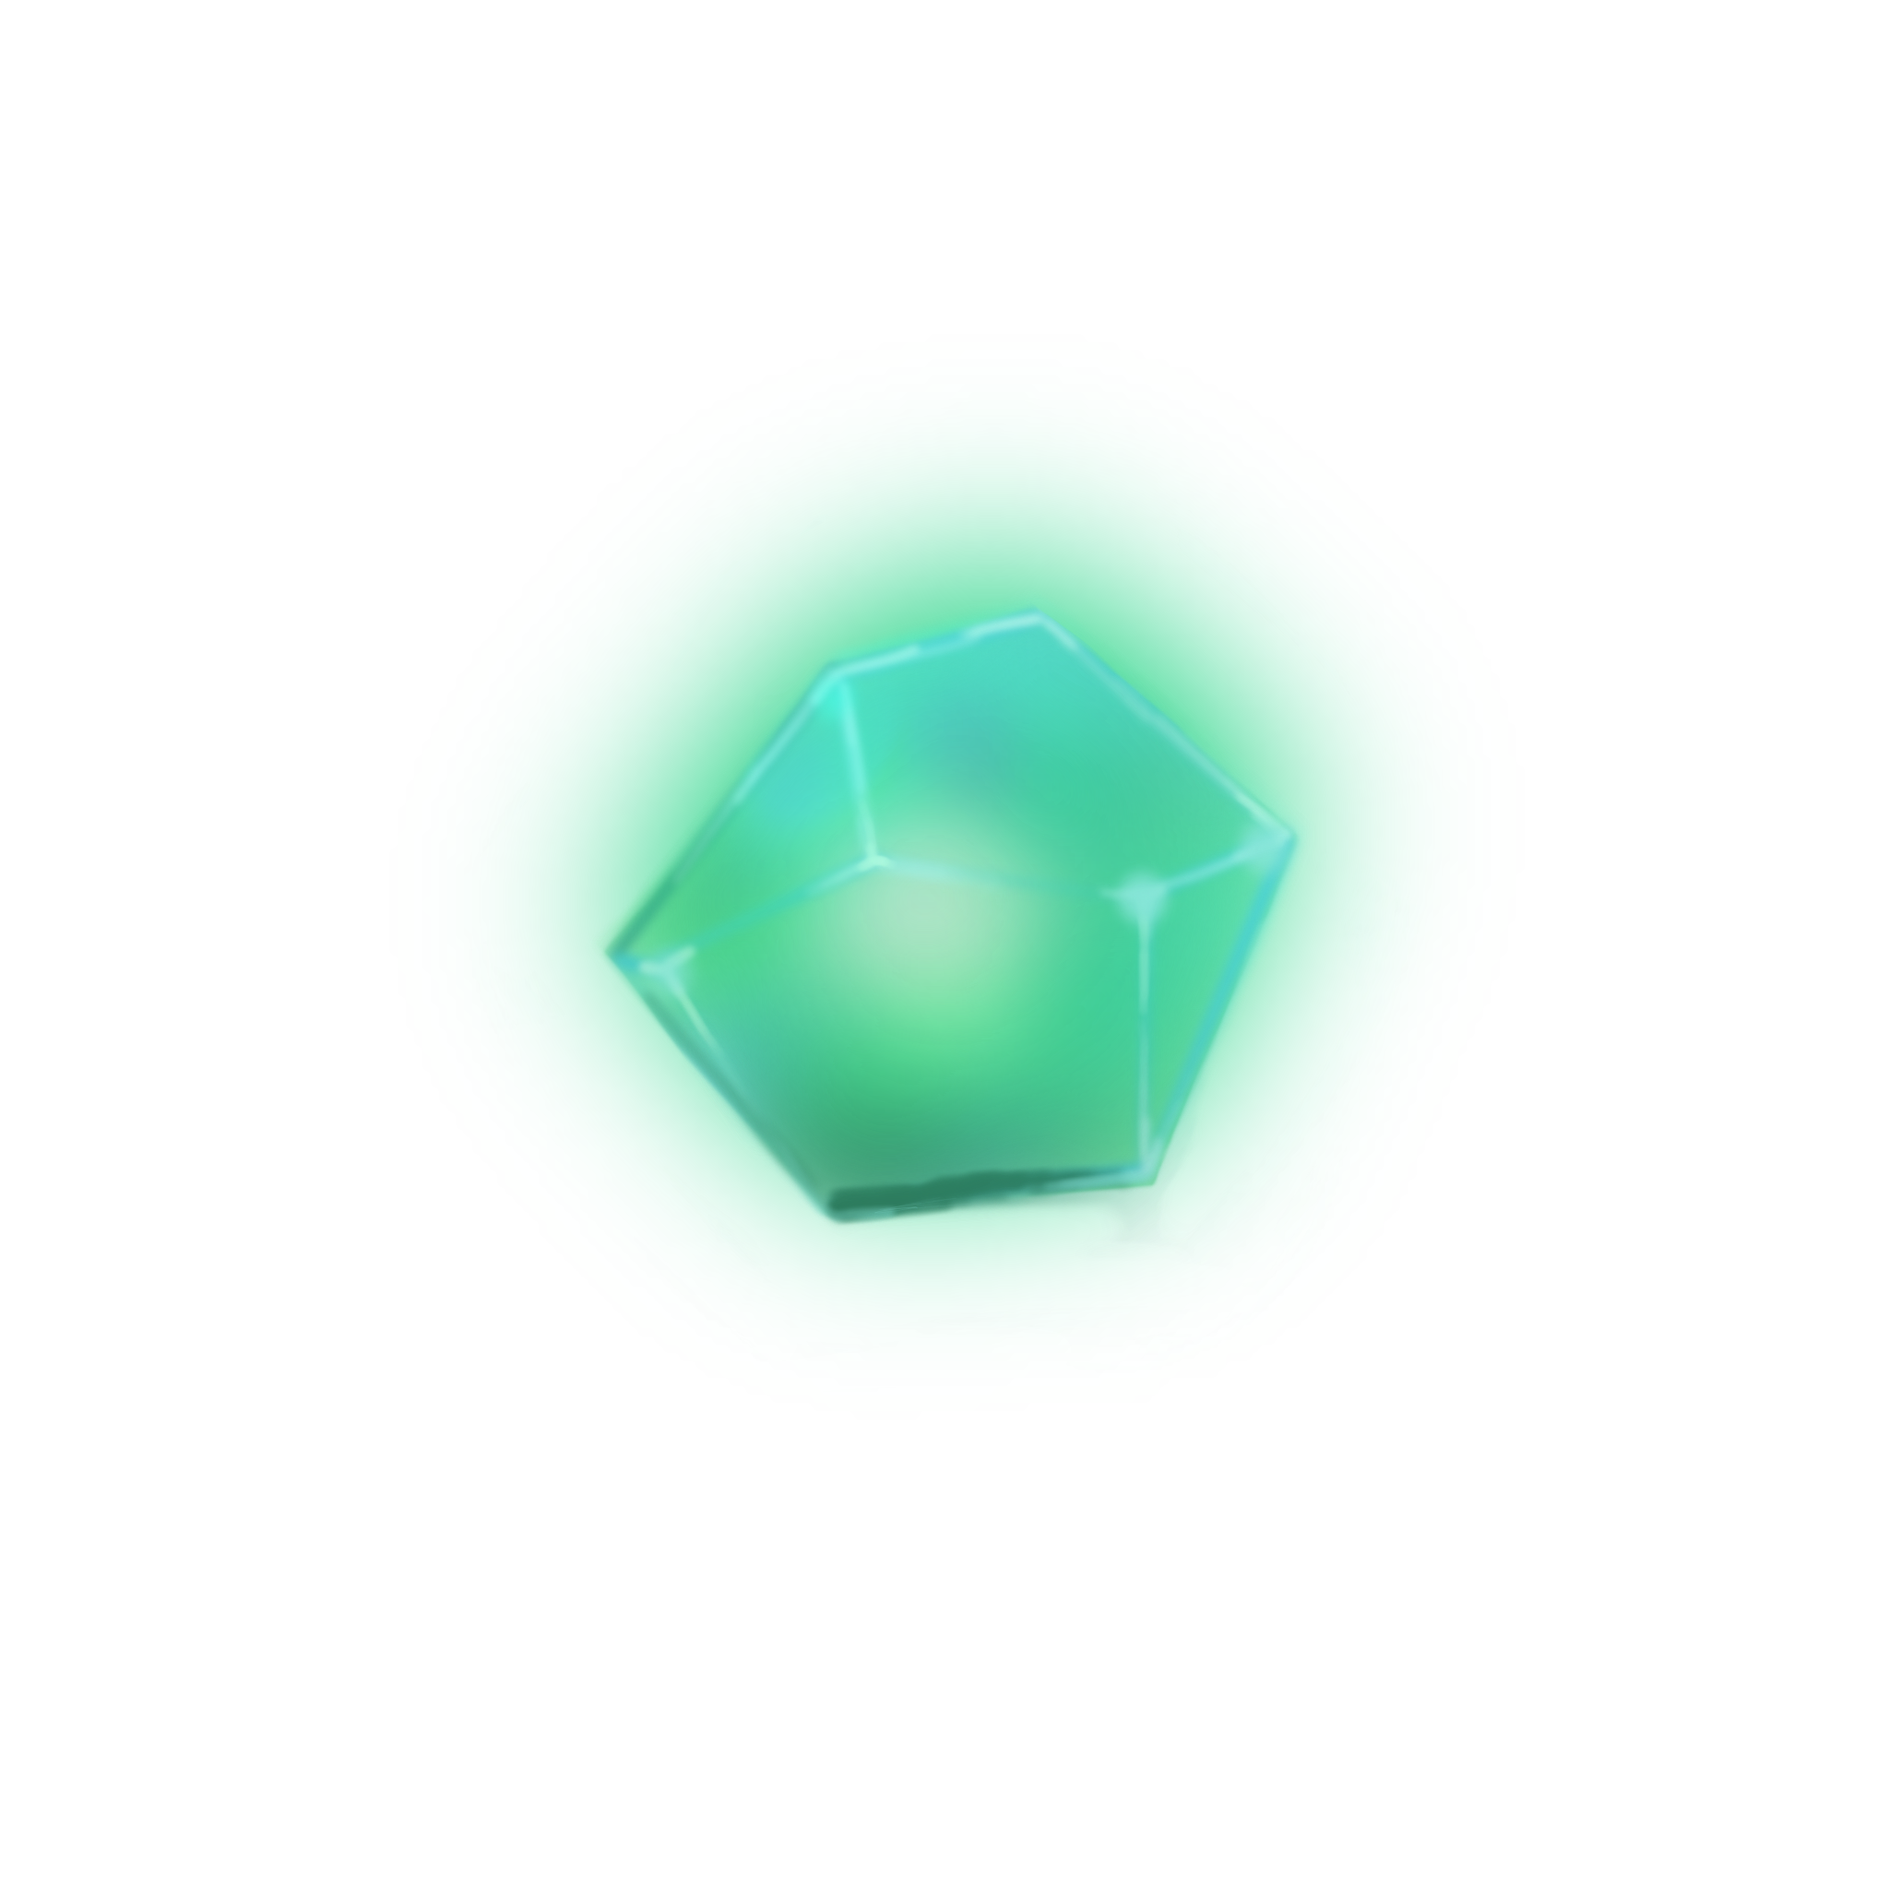
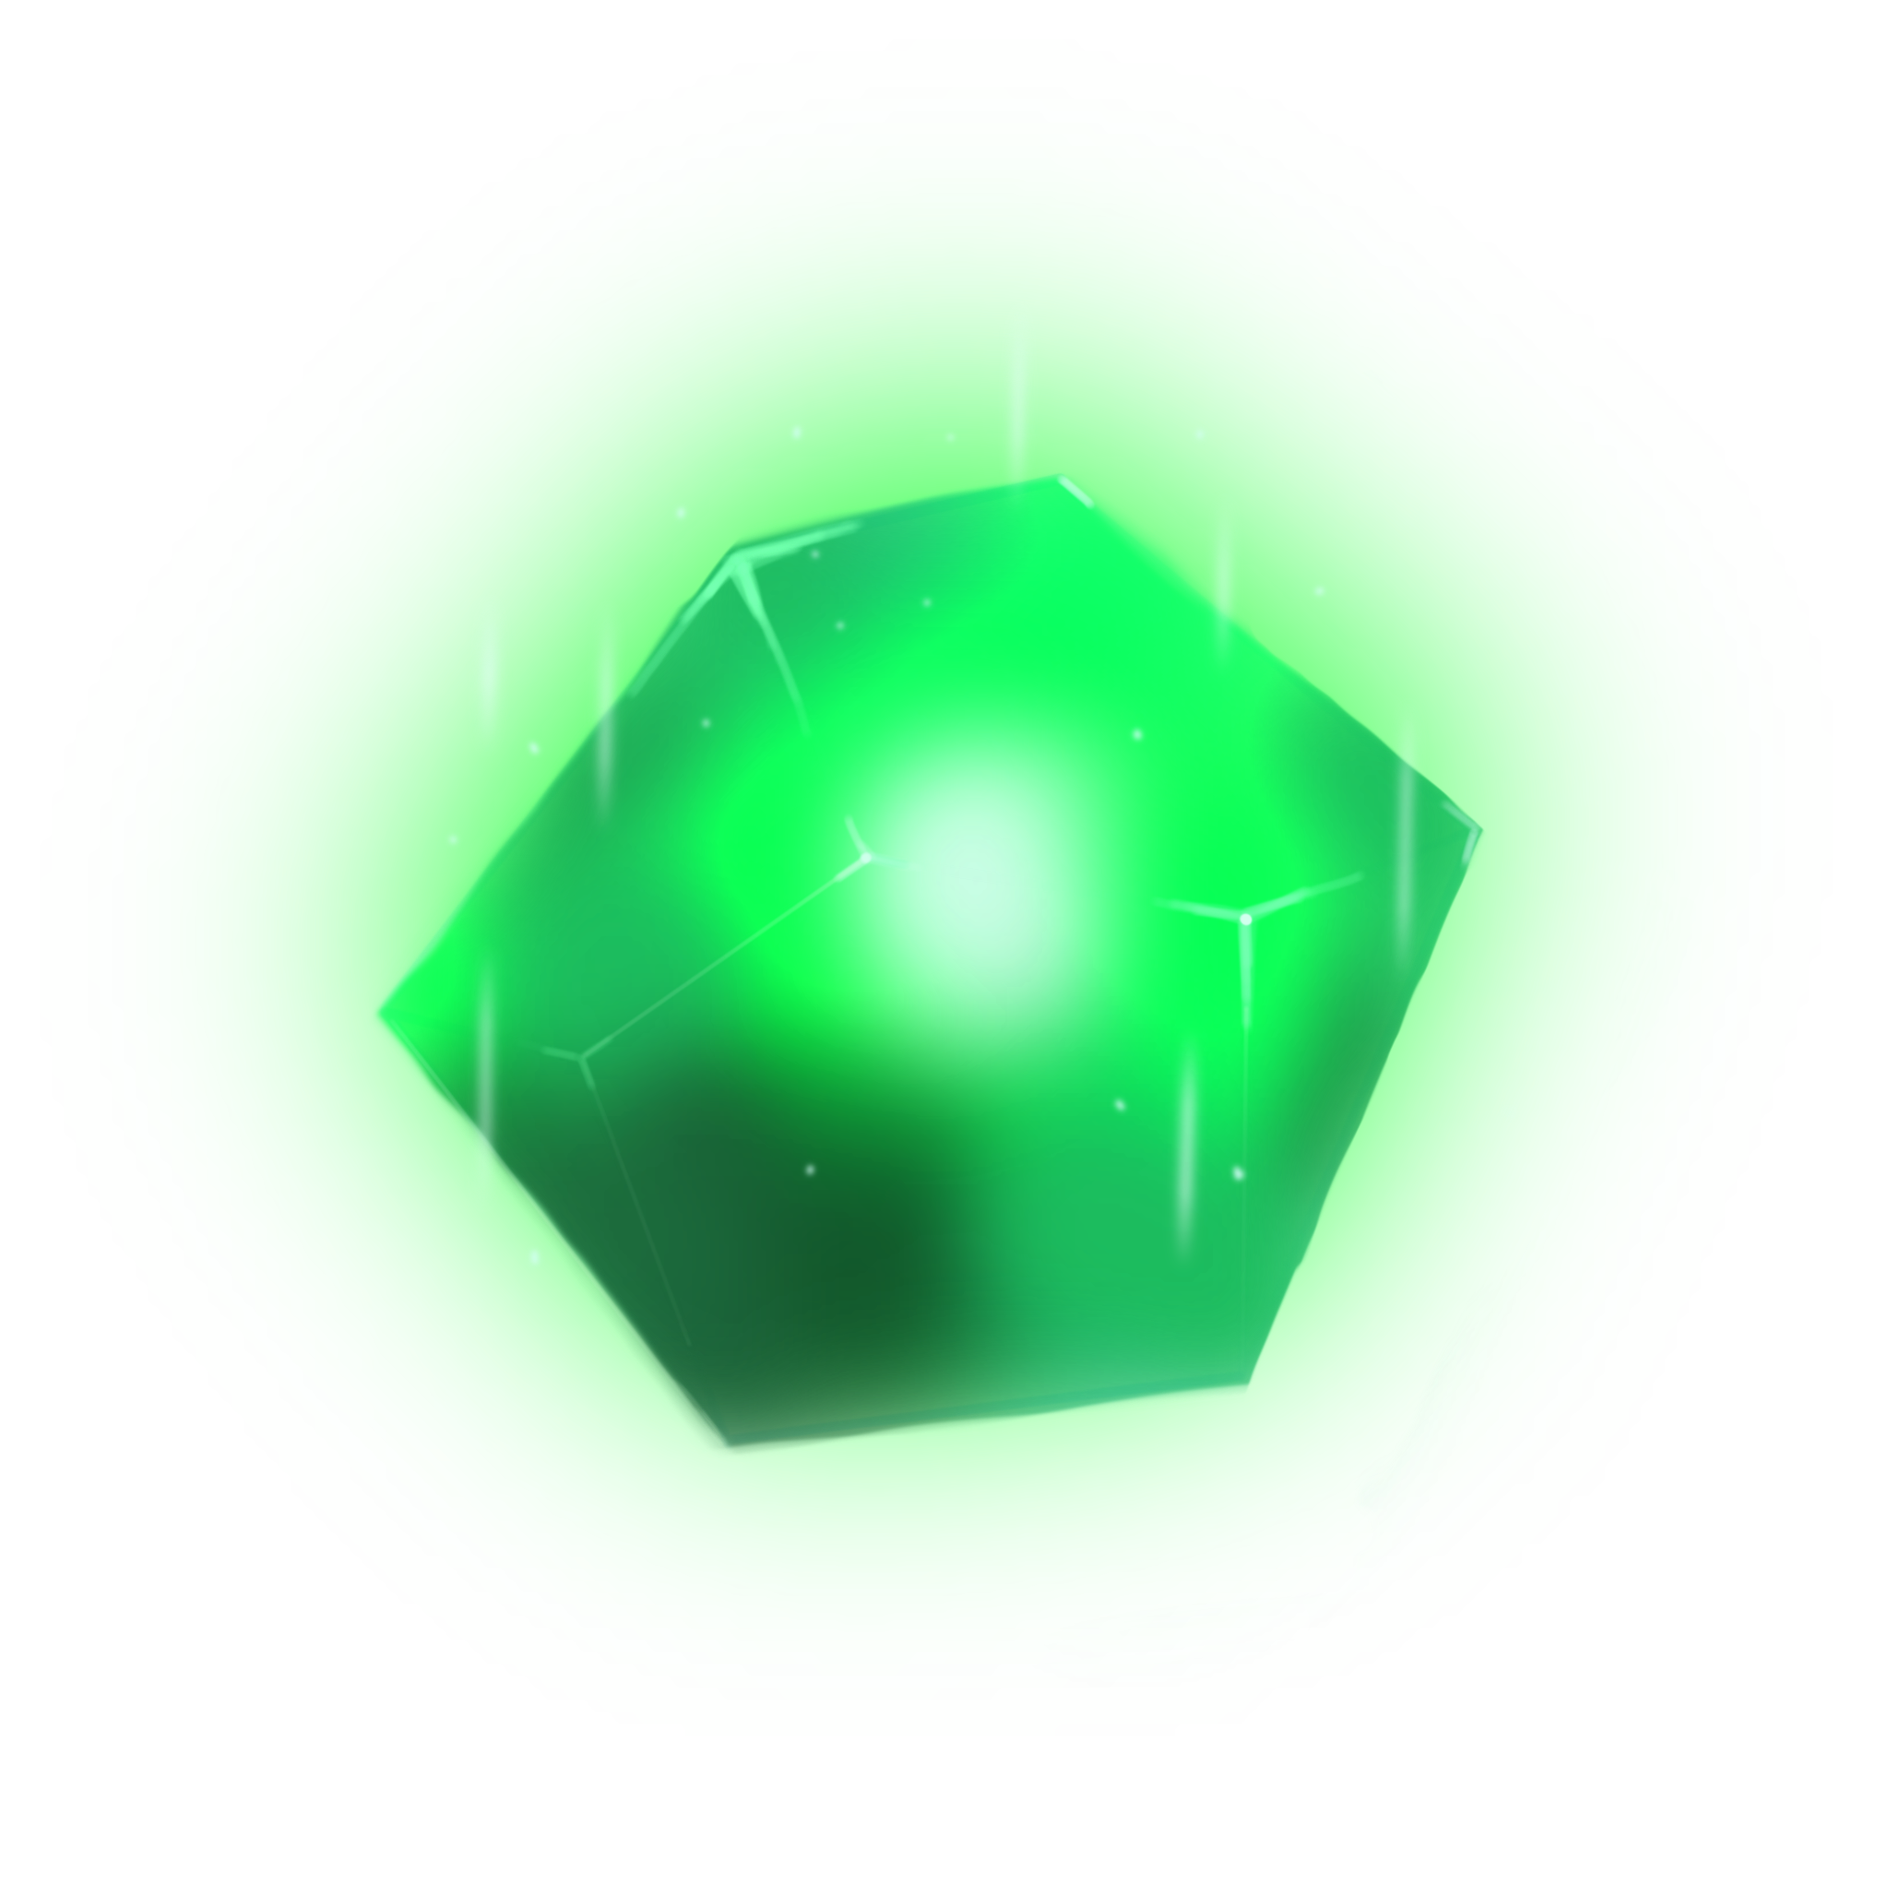
1

diff --git a/build/index.html b/build/index.html
@@ -1,1 +1,1 @@
-<!doctype html><html lang="en"><head><meta charset="utf-8"/><link rel="icon" href="/metallic-burger-web/favicon.ico"/><meta name="viewport" content="width=device-width,initial-scale=1"/><meta name="theme-color" content="#000000"/><meta name="description" content="Web site created using create-react-app"/><link rel="apple-touch-icon" href="/metallic-burger-web/logo192.png"/><link rel="manifest" href="/metallic-burger-web/manifest.json"/><title>React App</title><link href="/metallic-burger-web/static/css/main.3ab37bd0.chunk.css" rel="stylesheet"></head><body><noscript>You need to enable JavaScript to run this app.</noscript><div id="root"></div><script>!function(e){function r(r){for(var n,a,i=r[0],c=r[1],l=r[2],s=0,p=[];s<i.length;s++)a=i[s],Object.prototype.hasOwnProperty.call(o,a)&&o[a]&&p.push(o[a][0]),o[a]=0;for(n in c)Object.prototype.hasOwnProperty.call(c,n)&&(e[n]=c[n]);for(f&&f(r);p.length;)p.shift()();return u.push.apply(u,l||[]),t()}function t(){for(var e,r=0;r<u.length;r++){for(var t=u[r],n=!0,i=1;i<t.length;i++){var c=t[i];0!==o[c]&&(n=!1)}n&&(u.splice(r--,1),e=a(a.s=t[0]))}return e}var n={},o={1:0},u=[];function a(r){if(n[r])return n[r].exports;var t=n[r]={i:r,l:!1,exports:{}};return e[r].call(t.exports,t,t.exports,a),t.l=!0,t.exports}a.e=function(e){var r=[],t=o[e];if(0!==t)if(t)r.push(t[2]);else{var n=new Promise((function(r,n){t=o[e]=[r,n]}));r.push(t[2]=n);var u,i=document.createElement("script");i.charset="utf-8",i.timeout=120,a.nc&&i.setAttribute("nonce",a.nc),i.src=function(e){return a.p+"static/js/"+({}[e]||e)+"."+{3:"ed933a38"}[e]+".chunk.js"}(e);var c=new Error;u=function(r){i.onerror=i.onload=null,clearTimeout(l);var t=o[e];if(0!==t){if(t){var n=r&&("load"===r.type?"missing":r.type),u=r&&r.target&&r.target.src;c.message="Loading chunk "+e+" failed.\n("+n+": "+u+")",c.name="ChunkLoadError",c.type=n,c.request=u,t[1](c)}o[e]=void 0}};var l=setTimeout((function(){u({type:"timeout",target:i})}),12e4);i.onerror=i.onload=u,document.head.appendChild(i)}return Promise.all(r)},a.m=e,a.c=n,a.d=function(e,r,t){a.o(e,r)||Object.defineProperty(e,r,{enumerable:!0,get:t})},a.r=function(e){"undefined"!=typeof Symbol&&Symbol.toStringTag&&Object.defineProperty(e,Symbol.toStringTag,{value:"Module"}),Object.defineProperty(e,"__esModule",{value:!0})},a.t=function(e,r){if(1&r&&(e=a(e)),8&r)return e;if(4&r&&"object"==typeof e&&e&&e.__esModule)return e;var t=Object.create(null);if(a.r(t),Object.defineProperty(t,"default",{enumerable:!0,value:e}),2&r&&"string"!=typeof e)for(var n in e)a.d(t,n,function(r){return e[r]}.bind(null,n));return t},a.n=function(e){var r=e&&e.__esModule?function(){return e.default}:function(){return e};return a.d(r,"a",r),r},a.o=function(e,r){return Object.prototype.hasOwnProperty.call(e,r)},a.p="/metallic-burger-web/",a.oe=function(e){throw console.error(e),e};var i=this["webpackJsonpmetallic-burger-web"]=this["webpackJsonpmetallic-burger-web"]||[],c=i.push.bind(i);i.push=r,i=i.slice();for(var l=0;l<i.length;l++)r(i[l]);var f=c;t()}([])</script><script src="/metallic-burger-web/static/js/2.82e7d069.chunk.js"></script><script src="/metallic-burger-web/static/js/main.4406f355.chunk.js"></script></body></html>
+<!doctype html><html lang="en"><head><meta charset="utf-8"/><link rel="icon" href="/metallic-burger-web/favicon.ico"/><meta name="viewport" content="width=device-width,initial-scale=1"/><meta name="theme-color" content="#000000"/><meta name="description" content="Web site created using create-react-app"/><link rel="apple-touch-icon" href="/metallic-burger-web/logo192.png"/><link rel="manifest" href="/metallic-burger-web/manifest.json"/><title>React App</title><link href="/metallic-burger-web/static/css/main.3ab37bd0.chunk.css" rel="stylesheet"></head><body><noscript>You need to enable JavaScript to run this app.</noscript><div id="root"></div><script>!function(e){function r(r){for(var n,a,i=r[0],c=r[1],l=r[2],s=0,p=[];s<i.length;s++)a=i[s],Object.prototype.hasOwnProperty.call(o,a)&&o[a]&&p.push(o[a][0]),o[a]=0;for(n in c)Object.prototype.hasOwnProperty.call(c,n)&&(e[n]=c[n]);for(f&&f(r);p.length;)p.shift()();return u.push.apply(u,l||[]),t()}function t(){for(var e,r=0;r<u.length;r++){for(var t=u[r],n=!0,i=1;i<t.length;i++){var c=t[i];0!==o[c]&&(n=!1)}n&&(u.splice(r--,1),e=a(a.s=t[0]))}return e}var n={},o={1:0},u=[];function a(r){if(n[r])return n[r].exports;var t=n[r]={i:r,l:!1,exports:{}};return e[r].call(t.exports,t,t.exports,a),t.l=!0,t.exports}a.e=function(e){var r=[],t=o[e];if(0!==t)if(t)r.push(t[2]);else{var n=new Promise((function(r,n){t=o[e]=[r,n]}));r.push(t[2]=n);var u,i=document.createElement("script");i.charset="utf-8",i.timeout=120,a.nc&&i.setAttribute("nonce",a.nc),i.src=function(e){return a.p+"static/js/"+({}[e]||e)+"."+{3:"ed933a38"}[e]+".chunk.js"}(e);var c=new Error;u=function(r){i.onerror=i.onload=null,clearTimeout(l);var t=o[e];if(0!==t){if(t){var n=r&&("load"===r.type?"missing":r.type),u=r&&r.target&&r.target.src;c.message="Loading chunk "+e+" failed.\n("+n+": "+u+")",c.name="ChunkLoadError",c.type=n,c.request=u,t[1](c)}o[e]=void 0}};var l=setTimeout((function(){u({type:"timeout",target:i})}),12e4);i.onerror=i.onload=u,document.head.appendChild(i)}return Promise.all(r)},a.m=e,a.c=n,a.d=function(e,r,t){a.o(e,r)||Object.defineProperty(e,r,{enumerable:!0,get:t})},a.r=function(e){"undefined"!=typeof Symbol&&Symbol.toStringTag&&Object.defineProperty(e,Symbol.toStringTag,{value:"Module"}),Object.defineProperty(e,"__esModule",{value:!0})},a.t=function(e,r){if(1&r&&(e=a(e)),8&r)return e;if(4&r&&"object"==typeof e&&e&&e.__esModule)return e;var t=Object.create(null);if(a.r(t),Object.defineProperty(t,"default",{enumerable:!0,value:e}),2&r&&"string"!=typeof e)for(var n in e)a.d(t,n,function(r){return e[r]}.bind(null,n));return t},a.n=function(e){var r=e&&e.__esModule?function(){return e.default}:function(){return e};return a.d(r,"a",r),r},a.o=function(e,r){return Object.prototype.hasOwnProperty.call(e,r)},a.p="/metallic-burger-web/",a.oe=function(e){throw console.error(e),e};var i=this["webpackJsonpmetallic-burger-web"]=this["webpackJsonpmetallic-burger-web"]||[],c=i.push.bind(i);i.push=r,i=i.slice();for(var l=0;l<i.length;l++)r(i[l]);var f=c;t()}([])</script><script src="/metallic-burger-web/static/js/2.82e7d069.chunk.js"></script><script src="/metallic-burger-web/static/js/main.12efb582.chunk.js"></script></body></html>

diff --git a/src/App.js b/src/App.js
@@ -9,10 +9,16 @@ import vidMain from "./image/vidMain.m4v"
 import iconMain from "./image/burger-icon.png"
 import imgBackground from "./image/background1.png"
 import bgDark from "./image/bg-dark.jpeg"
-import imgGreenElement from "./image/green-gem.png"
-import imgRedElement from "./image/red-gem.png"
-import imgBlueElement from "./image/blue-gem.png"
-import imgYellowElement from "./image/yellow-gem.png"
+import imgGreenElement from "./image/green-alter.png"
+import imgRedElement from "./image/red-alter.png"
+// import imgBlueElement from "./image/darkblue1.png"
+import imgYellowElement from "./image/yellow-alter.png"
+import imgOrangeElement from "./image/orange-alter.png"
+import imgIndigoElement from "./image/indigo-alter.png"
+import imgPinkElement from "./image/pink-alter.png"
+import imgDarkElement from "./image/dark-alter.png"
+import imgTealElement from "./image/teal-alter.png"
+import imgLogo from "./image/burger-logo.png"
 import { useEffect, useState } from 'react';
 
 function App() {
@@ -37,24 +43,24 @@ function App() {
   const styleMain = {
     // backgroundImage: `url(${imgBackground})`
     // backgroundImage: "url(https://myburgerlab.com/static/img/home/img_hero_3_desktop.jpg)",
-    backgroundImage: "linear-gradient(to right, #48c6af, #a8e6cf"
+    backgroundImage: "linear-gradient(to right, #101010, #101010"
     // backgroundPosition: "left -200px bottom 10px",
     // height: "650px"
   }
 
   const styleOrigin = {
     // backgroundImage: "linear-gradient(to right, #BAA8EF, #CAB8FF"
-    backgroundImage: "linear-gradient(to right, #101010, #202020"
+    backgroundImage: "linear-gradient(to right, #000000, #000000"
     // backgroundImage: `url(${bgDark})`
     // height: "650px"
   }
 
   const styleRoadmap = {
-    backgroundImage: "linear-gradient(to right, #DCDFA6, #FCFFA6",
+    backgroundImage: "linear-gradient(to right, #101010, #101010",
   }
 
   const styleTeam = {
-    backgroundImage: "linear-gradient(to right, #A5CEFA, #B5DEFF",
+    backgroundImage: "linear-gradient(to right, #202020, #202020",
     // height: "650px"
   }
 
@@ -75,8 +81,8 @@ function App() {
   }
 
   const styleElements = {
-    width: "140px",
-    height: "140px"
+    width: "300px",
+    height: "300px"
   }
 
   const onclickHamburgerMenu = () => {
@@ -96,7 +102,7 @@ function App() {
       <section class="bg-center bg-no-repeat bg-cover" style={styleMain}>
         <nav class="container mx-auto lg:px-8 lg:flex items-center">
           <div class="flex items-center">
-            <div class="inline mr-auto my-2 mx-1 px-4 py-2"><img src={iconMain} style={styleIconMain}></img></div>
+            <div class="inline mr-auto my-2 mx-1 px-4 py-2"><img src={imgLogo} style={styleIconMain}></img></div>
             <div class="inline text-3xl text-white my-2 mx-1 px-4 py-2 block lg:hidden ml-auto">
               <a href="javascript:void(0);" class="icon" onClick={onclickHamburgerMenu}>
                 <i class="fa fa-bars"></i>
@@ -146,32 +152,40 @@ function App() {
           <div class="flex">
             <h2 class="text-4xl font-extrabold mx-8 my-8 mx-auto">Origin</h2>
           </div>
-          <div class="flex my-6 lg:-mb-14">
-            <div class="rounded-full mx-auto hover:bg-purple-700" style={styleElements}>
+          <div class="flex my-6 lg:-mb-48">
+            <div class="rounded-full mx-auto hover:bg-green-700" style={styleElements}>
               <img src={imgGreenElement}></img>
             </div>
             <div class="rounded-full mx-auto block lg:hidden hover:bg-purple-700" style={styleElements}></div>
           </div>
           <div class="flex my-6 lg:my-0">
-            <div class="rounded-full mx-auto lg:ml-auto lg:mr-0 lg:mr-44 hover:bg-purple-700" style={styleElements}>
+            <div class="rounded-full mx-auto lg:ml-auto lg:mr-0 lg:mr-44 hover:bg-red-700" style={styleElements}>
               <img src={imgRedElement}></img>
             </div>
-            <div class="rounded-full mx-auto lg:mr-auto lg:ml-0 hover:bg-purple-700" style={styleElements}>
+            <div class="rounded-full mx-auto lg:mr-auto lg:ml-0 hover:bg-yellow-700" style={styleElements}>
               <img src={imgYellowElement}></img>
             </div>
           </div>
-          <div class="flex my-6 lg:my-4">
-            <div class="rounded-full mx-auto lg:ml-auto lg:mr-0 lg:mr-80 hover:bg-purple-700" style={styleElements}>
-              <img src={imgBlueElement}></img>
+          <div class="flex my-6 lg:-my-20">
+            <div class="rounded-full mx-auto lg:ml-auto lg:mr-0 lg:mr-96 hover:bg-blue-700" style={styleElements}>
+              <img src={imgTealElement}></img>
             </div>
-            <div class="rounded-full mx-auto lg:mr-auto lg:ml-0 hover:bg-purple-700" style={styleElements}></div>
+            <div class="rounded-full mx-auto lg:mr-auto lg:ml-0 hover:bg-yellow-700" style={styleElements}>
+              <img src={imgOrangeElement}></img>
+            </div>
           </div>
           <div class="flex my-6 lg:my-0">
-            <div class="border rounded-full mx-auto lg:ml-auto lg:mr-0 lg:mr-44 hover:bg-purple-700" style={styleElements}></div>
-            <div class="border rounded-full mx-auto lg:mr-auto lg:ml-0 hover:bg-purple-700" style={styleElements}></div>
+            <div class="rounded-full mx-auto lg:ml-auto lg:mr-0 lg:mr-44 hover:bg-purple-700" style={styleElements}>
+              <img src={imgIndigoElement}></img>
+            </div>
+            <div class="rounded-full mx-auto lg:mr-auto lg:ml-0 hover:bg-purple-700" style={styleElements}>
+              <img src={imgPinkElement}></img>
+            </div>
           </div>
-          <div class="flex lg:-mt-14 hidden lg:block">
-            <div class="border rounded-full mx-auto hover:bg-purple-700" style={styleElements}></div>
+          <div class="flex lg:-mt-40 hidden lg:block">
+            <div class="rounded-full mx-auto hover:bg-purple-700" style={styleElements}>
+              <img src={imgDarkElement}></img>
+            </div>
           </div>
 
           <div class="grid grid-flow-row grid-cols-4 gap-4 mx-8 h-full py-32">

diff --git a/src/index.js b/src/index.js
@@ -3,12 +3,14 @@ import ReactDOM from 'react-dom';
 import './index.css';
 import App from './App';
 import reportWebVitals from './reportWebVitals';
-import { Helmet } from 'react-helmet'
+import { Helmet } from 'react-helmet';
+import iconLogo from "./image/burger-logo.png";
 
 ReactDOM.render(
   <React.StrictMode>
     <Helmet>
       <title>Alt Burger - NFT Collection</title>
+      <link rel="icon" href={iconLogo}/>
       <link rel="preconnect" href="https://fonts.googleapis.com" />
       <link rel="preconnect" href="https://fonts.gstatic.com" crossorigin />
       <link href="https://fonts.googleapis.com/css2?family=Raleway&display=swap" rel="stylesheet"></link>
